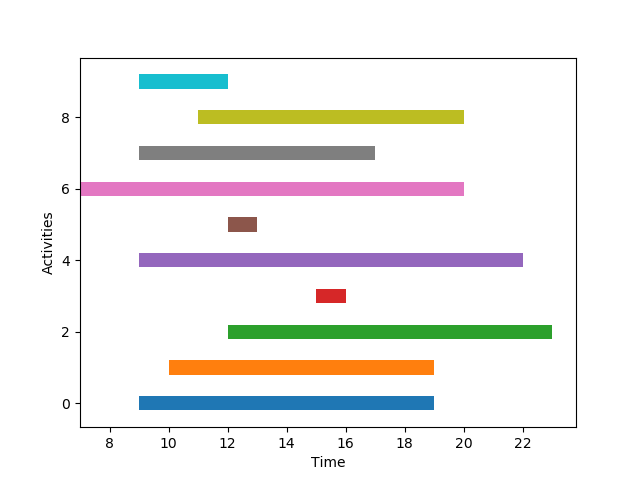
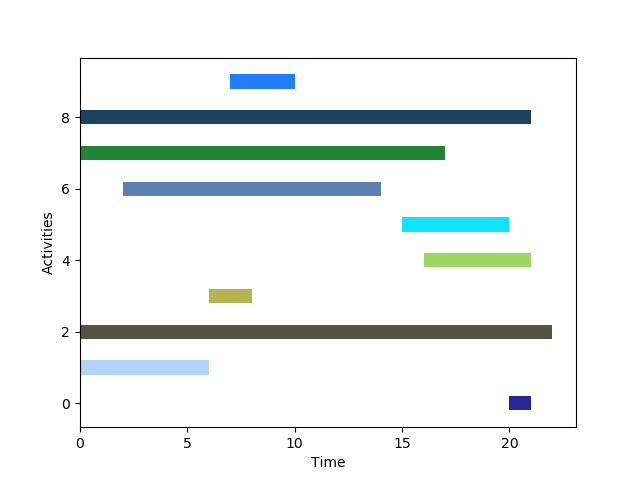
add color to activities

diff --git a/python_school/greedy/planning.py b/python_school/greedy/planning.py
@@ -6,8 +6,8 @@ def display_planning(activities, file_name="planning.png"):
     plt.xlabel("Time")
 
     for i in range(len(activities)):
-        (begin_hour, end_hour) = activities[i]
-        plt.barh(i, end_hour - begin_hour, left=[begin_hour], height=0.4)
+        (begin_hour, end_hour, color) = activities[i]
+        plt.barh(i, end_hour - begin_hour, left=[begin_hour], height=0.4, color=color)
     
     plt.savefig(file_name)
     plt.clf()
@@ -17,7 +17,7 @@ def generate_planning(activities):
     last_activity = None
     planning = []
     for activity in sorted_activities:
-        (begin_hour, end_hour) = activity
+        (begin_hour, end_hour, _color) = activity
 
         if last_activity is None or begin_hour >= last_activity[1]:
             planning.append(activity)
@@ -33,7 +33,13 @@ def generate_random_activities(nb_activities):
         begin_hour = random.randrange(0, 23)
         end_hour = random.randrange(begin_hour + 1, 24)
 
-        rand_activities.append((begin_hour, end_hour))
+        red = random.randrange(0, 255) / 255
+        green = random.randrange(0, 255) / 255
+        blue = random.randrange(0, 255) / 255
+
+        new_activity = (begin_hour, end_hour, (red, green, blue))
+
+        rand_activities.append(new_activity)
     
     return rand_activities
 
